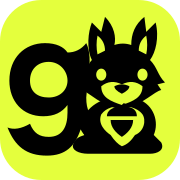
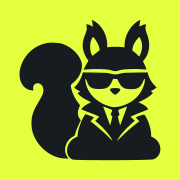
Gitmapp logosunu yazısız ajan sincap olarak yenile

diff --git a/index.html b/index.html
@@ -8,9 +8,9 @@
 <meta name="theme-color" content="#0a0a0a" /><meta name="robots" content="index,follow" /><link rel="canonical" href="https://gitmapp.com/" />
 <meta property="og:type" content="website" /><meta property="og:site_name" content="gitmapp" /><meta property="og:title" content="gitmapp — Fikrinden canlı uygulamaya, dakikalar içinde" />
 <meta property="og:description" content="Türkçe anlat, yapay zekâ yapsın: uygulama, site ve oyun. Hazır şablonlar ve tek tıkla yayın." /><meta property="og:url" content="https://gitmapp.com/" /><meta name="twitter:card" content="summary_large_image" />
-<link rel="manifest" href="./manifest.webmanifest"><link rel="apple-touch-icon" href="./pwa/icon-180.png">
-<link rel="icon" type="image/svg+xml" href="./brand/app-icon.svg" />
-<link rel="stylesheet" href="./brand/motion.css" />
+<link rel="manifest" href="./manifest.webmanifest"><link rel="apple-touch-icon" href="./pwa/icon-180.png?v=agent">
+<link rel="icon" type="image/svg+xml" href="./brand/app-icon.svg?v=agent" />
+<link rel="stylesheet" href="./brand/motion.css?v=agent" />
 <link rel="preconnect" href="https://fonts.googleapis.com" />
 <link href="https://fonts.googleapis.com/css2?family=Inter:wght@400;500;600;700;800&family=Source+Serif+4:opsz,wght@8..60,400;8..60,500;8..60,600&family=JetBrains+Mono:wght@400;500&family=Poppins:wght@500;700&family=DM+Sans:wght@500;700&family=Space+Grotesk:wght@500;700&family=Playfair+Display:wght@600;700&family=Nunito:wght@600;800&family=Newsreader:ital,opsz,wght@0,6..72,400;0,6..72,500;1,6..72,400&display=swap" rel="stylesheet" />
 <style>
@@ -21,7 +21,6 @@ button,input,select,textarea{font:inherit;color:inherit}
 .app{display:flex;min-height:100vh}
 .side{width:230px;flex-shrink:0;background:var(--bg2);border-right:1px solid var(--line);padding:18px 12px;position:sticky;top:0;height:100vh;display:flex;flex-direction:column;gap:4px}
 .logo{display:flex;align-items:center;gap:10px;font-weight:800;font-size:18px;padding:4px 8px 18px}
-.logo i{width:32px;height:32px;border-radius:9px;background:linear-gradient(135deg,var(--acc),var(--acc2));display:grid;place-items:center;font-style:normal}
 .nav{display:flex;align-items:center;gap:10px;padding:10px 12px;border-radius:9px;cursor:pointer;color:var(--mut);border:0;background:none;text-align:left;width:100%}
 .nav:hover{background:#222221;color:var(--txt)}.nav.on{background:#292928;color:#fff}
 .nav b{margin-left:auto;background:var(--acc);color:#fff;border-radius:20px;padding:0 7px;font-size:11px}
@@ -160,7 +159,7 @@ body::before{content:"";position:fixed;inset:0;pointer-events:none;z-index:0;bac
 .glass{background:rgba(14,14,14,.66);backdrop-filter:blur(22px) saturate(160%);-webkit-backdrop-filter:blur(22px) saturate(160%)}
 .side{width:256px;border-right:1px solid rgba(255,255,255,.06);padding:16px 12px 12px;gap:2px;overflow:auto}
 .logo{gap:11px;font-size:19px;letter-spacing:-.2px;padding:2px 6px 14px}
-.brand{display:grid;place-items:center;flex-shrink:0;background:linear-gradient(145deg,#e4ff3d,#a3e635 55%,#f4ffb3);box-shadow:0 6px 18px -6px rgba(163,230,53,.7),inset 0 0 0 1px rgba(255,255,255,.18)}
+.brand{display:block;flex-shrink:0;color:inherit}
 .tile{display:grid;place-items:center;flex-shrink:0;box-shadow:inset 0 0 0 1px rgba(255,255,255,.16),0 2px 6px -2px rgba(0,0,0,.6)}
 .sbox{display:flex;align-items:center;gap:8px;background:rgba(255,255,255,.055);border:1px solid rgba(255,255,255,.06);border-radius:12px;padding:9px 12px;margin-bottom:10px;transition:border-color .2s,background .2s}.sbox:focus-within{border-color:#e4ff3d;background:rgba(228,255,61,.08)}
 .sbox input{flex:1;min-width:0;border:0;background:none;outline:0;font-size:14px}.sbox input::placeholder{color:#888883}
@@ -186,7 +185,7 @@ body::before{content:"";position:fixed;inset:0;pointer-events:none;z-index:0;bac
 .explore{max-width:1180px;margin:0 auto}
 .hero-banner{position:relative;overflow:hidden;border-radius:28px;min-height:340px;display:flex;align-items:center;padding:42px 48px;background:radial-gradient(800px 400px at 85% 20%,rgba(255,95,162,.55),transparent 60%),radial-gradient(700px 500px at 10% 110%,rgba(255,179,71,.55),transparent 60%),linear-gradient(120deg,#ff7a45,#e8467c 45%,#8b5cf6);box-shadow:0 30px 60px -30px rgba(232,70,124,.6)}
 .hero-banner::after{content:"";position:absolute;inset:0;background:linear-gradient(90deg,rgba(11,15,23,.35),transparent 60%);pointer-events:none}
-.hb-mark{position:absolute;right:-70px;bottom:-110px;opacity:.13;transform:rotate(-14deg);pointer-events:none}.hb-mark .brand{background:#fff!important;box-shadow:none}
+.hb-mark{position:absolute;right:-70px;bottom:-110px;opacity:.13;transform:rotate(-14deg);pointer-events:none}
 .hb-txt{position:relative;z-index:2;max-width:540px}
 .hb-txt h1{font-size:44px;line-height:1.08;letter-spacing:-1.2px;margin:6px 0 12px;font-weight:800;color:#fff}
 .hb-txt p{color:rgba(255,255,255,.88);font-size:16px;line-height:1.55;margin:0 0 22px}
@@ -473,8 +472,6 @@ h1{font-size:30px;font-weight:800;letter-spacing:-.6px;line-height:1.15}
 /* ===== v4.0 GITMAPP KİMLİĞİ — limon sarısı, grafit, ince çizgi ===== */
 body{background:radial-gradient(900px 520px at 85% -10%,rgba(228,255,61,.07),transparent 60%),var(--bg)}
 body::before{background-image:linear-gradient(rgba(255,255,255,.025) 1px,transparent 1px),linear-gradient(90deg,rgba(255,255,255,.025) 1px,transparent 1px);background-size:48px 48px}
-.brand{background:#e4ff3d!important;box-shadow:0 0 0 1px rgba(228,255,61,.35),0 8px 24px -10px rgba(228,255,61,.55)}
-.wordmark i{width:auto!important;height:auto!important;background:none!important;box-shadow:none!important;display:inline!important;border-radius:0!important;font-size:inherit}.wordmark{font-family:Inter,system-ui,sans-serif;font-weight:800;letter-spacing:-.06em;color:#f4f4ef;line-height:1}.wordmark i{font-style:normal;color:#e4ff3d}
 .tile{background:#141414;color:#e4ff3d;box-shadow:inset 0 0 0 1px #2a2a2a}
 .tile.hue{color:var(--tc,#e4ff3d)}
 .nav.on .tile{background:#e4ff3d;color:#0a0a0a;box-shadow:none}
@@ -1058,8 +1055,9 @@ const {useState,useEffect,useMemo,useCallback,useRef}=React;
 const html=htm.bind(React.createElement);
 
 /* ================= SÜRÜM / GÜNCELLEMELER ================= */
-const VERSION="5.8.0";
+const VERSION="5.8.1";
 const CHANGELOG=[
+ {v:"5.8.1",date:"2026-11-25",items:["Gitmapp logosu gözlüklü ve kravatlı bir ajan sincap olarak yenilendi. Menü, giriş ekranı ve uygulama simgeleri aynı yazısız işareti kullanıyor."]},
  {v:"5.8.0",date:"2026-11-25",items:[
   "💬 Asistan paneli de Claude sohbet dilini kullanıyor: istek gelince “… isteği değerlendiriliyor” satırı ve canlı sayaçlı “Düşünüyor… N sn” kutusu çıkıyor",
   "💭 Her yanıtın üstünde “N sn düşündü” satırı var; basınca ne düşündüğü açılıyor",
@@ -2350,7 +2348,7 @@ function SketchScene({onStart,compact}){
    <rect class="sk-scan" x="560" y="24" width="360" height="4" fill="rgba(79,140,255,.85)"/>
   </svg>
   <div class="sk-phone"><div class="sk-screen">
-   <div class="sk-bar"><${BrandMark} s=${20}/><b>Gitmapp</b><span style=${{flex:1}}></span><${Icon} n="search" s=${13}/></div>
+   <div class="sk-bar"><${BrandMark} s=${24} label="Gitmapp"/><span style=${{flex:1}}></span><${Icon} n="search" s=${13}/></div>
    <div class="sk-hero"><span class="eyebrow light" style=${{fontSize:7}}>Çizimden uygulamaya</span><b>Kuaför Randevu</b><span>Çiziminden oluşturuldu</span></div>
    <div class="sk-cats">${[["sparkles","#ec4899,#f472b6","Saç"],["heart","#f43f5e,#f59e0b","Bakım"],["star","#8b5cf6,#d946ef","Makyaj"]].map(([ic,g,l])=>html`<div key=${l}><${Tile} n=${ic} g=${g} s=${22}/><span>${l}</span></div>`)}</div>
    ${[["💇","#ec4899","Saç kesimi","45 dk"],["💅","#8b5cf6","Manikür","30 dk"],["🧖","#f59e0b","Cilt bakımı","60 dk"]].map(([e,c,t,d])=>html`<div class="sk-row" key=${t}><${AppIcon2} emoji=${e} color=${c} size=${24}/><div><b>${t}</b><span>${d}</span></div><i>AL</i></div>`)}
@@ -3103,8 +3101,7 @@ const ecosystemRoutes={ana:"idea","$ara":"search",studio:"studio",sablonlar:"tem
 const EcosystemIcon=({name,s=20})=>html`<svg class="gm-icon" aria-hidden="true" focusable="false" width=${s} height=${s} viewBox="0 0 24 24" fill="none" stroke="currentColor" stroke-width="1.65" stroke-linecap="round" stroke-linejoin="round"><use href=${"./brand/ecosystem.svg#"+name}/></svg>`;
 const NavIcon=({k,n,s})=>ecosystemRoutes[k]?html`<${EcosystemIcon} name=${ecosystemRoutes[k]} s=${s}/>`:html`<${Icon} n=${(TILE[k]||[n||"dot"])[0]} s=${s} c="currentColor"/>`;
 const Tile=({k,n,s=28})=>html`<span class="tile" style=${{width:s,height:s}}><${NavIcon} k=${k} n=${n} s=${Math.round(s*.68)}/></span>`;
-const BrandMark=({s=34})=>html`<span class="brand" aria-hidden="true" style=${{width:s,height:s,borderRadius:s*.28,color:"#101211"}}><svg class="gm-squirrel" aria-hidden="true" focusable="false" width=${s*.91} height=${s*.91} viewBox="0 0 96 96"><use class="sq-tail" href="./brand/squirrel.svg#tail"/><use href="./brand/squirrel.svg#body"/><use class="sq-head" href="./brand/squirrel.svg#head"/><use class="sq-nut" href="./brand/squirrel.svg#acorn"/></svg></span>`;
-const Wordmark=({s=19})=>html`<span class="wordmark" style=${{fontSize:s}}>gitmapp<i>.</i></span>`;
+const BrandMark=({s=34,label})=>html`<svg class="brand gm-squirrel" width=${s} height=${s} viewBox="0 0 96 96" fill="currentColor" role=${label?"img":undefined} aria-label=${label} aria-hidden=${label?undefined:"true"} focusable="false"><use href="./brand/squirrel.svg?v=agent#agent"/></svg>`;
 const CAT_META={is:["briefcase","#3b82f6,#6366f1"],verimlilik:["check","#22c55e,#14b8a6"],egitim:["cap","#f59e0b,#f97316"],saglik:["heart","#f43f5e,#ec4899"],eticaret:["bag","#8b5cf6,#d946ef"],yemek:["utensils","#f97316,#ef4444"],oyun:["gamepad","#6366f1,#a855f7"],finans:["wallet","#10b981,#22c55e"],sosyal:["chat","#0ea5e9,#22d3ee"],araclar:["wrench","#64748b,#94a3b8"],diger:["sparkles","#ec4899,#f59e0b"]};
 const catName=id=>{const c=STORE_CATS2.find(x=>x[0]===id);return c?c[2]:"Diğer"};
 const SYMBOL_ICON={"🎯": "brand_crm", "🧾": "brand_muhasebe", "📦": "brand_stok", "🛡": "brand_sigorta", "🦷": "brand_klinik", "🏡": "brand_emlak", "✅": "check", "🍽": "brand_restoran", "✨": "sparkles", "📅": "calendar", "💇": "scissors", "☕": "coffee", "🛒": "shopping-cart", "💰": "wallet", "🧠": "brain", "🎮": "gamepad", "🎉": "confetti", "🏋": "barbell", "📚": "books", "🏥": "hospital", "🏠": "home", "🚗": "car", "🐾": "paw-print", "🎵": "music-notes", "📷": "camera", "💬": "chat", "🌱": "plant", "⚽": "soccer-ball", "⚖": "scale", "⚡": "bolt", "⚫": "dot", "✈": "airplane", "✍": "pen", "🌙": "moon", "🌾": "grains", "🎓": "cap", "🎨": "paint-brush", "🎬": "film-strip", "🏗": "crane", "🏢": "realty", "🏨": "bed", "🐋": "sailboat", "👥": "users", "💼": "briefcase", "📄": "file", "📇": "users", "📡": "radar", "📱": "phone", "🔎": "search", "🔵": "dot", "🚀": "rocket", "🚚": "truck", "🛠": "wrench", "🖼": "image", "🟠": "dot", "🟢": "dot", "🟣": "dot", "🟧": "grid", "🤖": "bot", "🦙": "cpu", "💅": "flower", "🧖": "hand-heart", "🔥": "flame", "🗺": "map", "📸": "camera", "🌐": "globe", "🌍": "globe", "🌟": "star", "⭐": "star", "👾": "gamepad", "🐙": "code", "🏁": "target", "💳": "card", "🔗": "link", "📨": "send", "⬇": "download", "👁": "eye", "✏": "edit", "🔑": "key", "🗂": "folder", "💡": "bolt", "🛍": "bag", "🗑": "trash", "📊": "chart", "💎": "gem", "🧭": "compass", "💪": "barbell", "▶": "play", "★": "star", "☆": "star", "⑂": "share"};
@@ -3689,7 +3686,7 @@ function HomePage(props){const {auth,startTemplate,go}=props;
 }
 function AuthScreen({auth,health,toast,reason,close}){
  return html`<div class="authx"><button class="authx-x ib" onClick=${close} title="Kapat"><${Icon} n="x" s=${17}/></button>
-  <div class="authx-l"><div class="authx-logo"><${BrandMark} s=${34}/><${Wordmark} s=${22}/></div>
+  <div class="authx-l"><div class="authx-logo"><${BrandMark} s=${46} label="Gitmapp"/></div>
    <div class="authx-f"><${AuthBox} auth=${auth} health=${health} toast=${toast} reason=${reason} onDone=${close}/>
     <p class="authx-legal">Devam ederek <a href="#guncel">Kullanım Koşulları</a> ve <a href="#guncel">Gizlilik Politikası</a>'nı kabul etmiş olursun.</p></div></div>
   <div class="authx-r"><div class="siri"><i></i><i></i><i></i><i></i><i></i></div>
@@ -4238,7 +4235,7 @@ function App(){
   throw new Error("Bu adımı tanımıyorum: "+a.t)};
  const cpCtx=()=>({sayfa:viewRef.current,sayfaAdi:TITLES[viewRef.current]||"Ana sayfa",girisYapti:!!auth.user,kredi:auth.user?(auth.user.credits??0):null,projeSayisi:myApps.length,studyo:viewRef.current==="studio"?(window.__gmStudio||{}):{acik:false},katalog:{sayfalar:CP_VIEWS,temalar:THEMES.map(t=>t.id+": "+t.name+" ("+t.tag+")"),sablonlar:TEMPLATE_LIB.map(t=>t.id+": "+t.name+" — "+t.sector),turler:"app|site|game",modlar:"hizli|planli|ajan"}});
  return html`<div class=${"app"+(view==="studio"?" studio-shell"+(compact?" nav-compact":""):"")+(cp?" cp-on":"")}>
-  <aside class="side glass noprint">${view==="studio"&&html`<button class="ib studio-nav-switch" aria-label=${compact?"Menüyü genişlet":"Menüyü daralt"} title=${compact?"Menüyü genişlet":"Menüyü daralt"} onClick=${()=>{setCompact(!compact);LS.set("compactStudio",!compact)}}><${Icon} n="menu" s=${16}/></button>`}<div class="logo"><${BrandMark} s=${32}/><${Wordmark}/></div>
+  <aside class="side glass noprint">${view==="studio"&&html`<button class="ib studio-nav-switch" aria-label=${compact?"Menüyü genişlet":"Menüyü daralt"} title=${compact?"Menüyü genişlet":"Menüyü daralt"} onClick=${()=>{setCompact(!compact);LS.set("compactStudio",!compact)}}><${Icon} n="menu" s=${16}/></button>`}<div class="logo"><${BrandMark} s=${42} label="Gitmapp"/></div>
    <div style=${{position:"relative"}}><button class="wsw" onClick=${()=>setWsMenu(!wsMenu)}><span class="wsw-i">${auth.user?initials(auth.user)[0]:"G"}</span><span class="wsw-t">${auth.user?(auth.user.name||"Benim").split(" ")[0]+"'in çalışma alanı":"Misafir çalışma alanı"}<small>${mode==="admin"?(isAdm?"Yönetici görünümü":"Yönetici girişi"):"Kullanıcı görünümü"}</small></span><${Icon} n="chevDown" s=${14}/></button>
     ${wsMenu&&html`<div class="wsw-m glass" onMouseLeave=${()=>setWsMenu(false)}><div class="modesw">${[["musteri","Kullanıcı"],["admin","Yönetici"]].map(([k,l])=>html`<button class=${mode===k?"on":""} onClick=${()=>{setWsMenu(false);switchMode(k)}}>${l}</button>`)}</div><button onClick=${()=>navGo("hesabim")}><${Icon} n="user" s=${15}/> Hesabım</button><button onClick=${()=>navGo("modeller")}><${Icon} n="cpu" s=${15}/> Dil modelleri ve krediler</button><button onClick=${()=>navGo("baglantilar")}><${Icon} n="plug" s=${15}/> Bağlantılar</button>${auth.user?html`<button onClick=${()=>{setWsMenu(false);auth.logout();toast("Çıkış yapıldı")}}><${Icon} n="logout" s=${15}/> Çıkış yap</button>`:html`<button onClick=${()=>{setWsMenu(false);openAuth("")}}><${Icon} n="user" s=${15}/> Giriş yap / Kayıt ol</button>`}</div>`}</div>
    <nav class="navs">${navList("")}</nav>

diff --git a/brand/motion.css b/brand/motion.css
@@ -1,24 +1,14 @@
-/* The squirrel settles on arrival, then inspects its acorn when approached. */
-.gm-squirrel .sq-tail { transform-origin: 43px 71px; }
-.gm-squirrel .sq-head { transform-origin: 65px 49px; }
-.gm-squirrel .sq-nut { transform-origin: 65px 62px; }
-@keyframes gm-tail-flick {
-  0%, 100% { transform: rotate(0); }
-  34% { transform: rotate(-7deg); }
-  66% { transform: rotate(3deg); }
-}
-@keyframes gm-sniff {
-  0%, 38%, 72%, 100% { transform: rotate(0); }
-  24%, 60% { transform: rotate(2deg) translateY(1.4px); }
-}
-@keyframes gm-nibble {
-  0%, 42%, 74%, 100% { transform: translateY(0); }
-  28%, 62% { transform: translateY(-2px); }
+/* A short lookout gesture when the agent appears or the pointer approaches. */
+@keyframes gm-lookout {
+  0%, 100% { transform: none; }
+  40% { transform: translateY(-1px) rotate(-4deg); }
+  70% { transform: rotate(1deg); }
 }
 @media (prefers-reduced-motion: no-preference) {
-  .logo .sq-tail { animation: gm-tail-flick .86s ease-in-out .15s 1; }
-  .gm-squirrel:hover .sq-head { animation: gm-sniff .82s ease-in-out; }
-  .gm-squirrel:hover .sq-nut { animation: gm-nibble .82s ease-in-out; }
+  .logo .gm-squirrel, .authx-logo .gm-squirrel:hover {
+    transform-origin: 50% 82%;
+    animation: gm-lookout .72s ease-in-out;
+  }
 }
 .brand-film { width:min(96vw,1100px); max-height:94dvh; padding:0; border:1px solid #39443a; border-radius:18px; background:#101211; color:#f2f0e6; }
 .brand-film::backdrop { background:rgba(5,11,8,.86); }

diff --git a/tools/build_brand.py b/tools/build_brand.py
@@ -1,12 +1,37 @@
-"""Regenerate the standalone favicon and install icons from the Gitmapp squirrel."""
+"""Generate the favicon, monochrome signature files and install icons from the master."""
 from pathlib import Path
 import subprocess
+import tempfile
+from xml.etree import ElementTree
 
 root = Path(__file__).resolve().parents[1]
-master = (root / "brand/squirrel.svg").read_text()
-tile = master.replace('<g id="tail">', '<rect width="96" height="96" rx="22" fill="#e4ff3d"/>\n  <g id="tail">', 1)
-source = root / "brand/app-icon.svg"
-source.write_text(tile)
-for size in (180, 192, 512):
-    subprocess.run(["inkscape", str(source), "--export-width", str(size),
-                    "--export-filename", str(root / f"pwa/icon-{size}.png")], check=True)
+brand = root / "brand"
+ns = "http://www.w3.org/2000/svg"
+ElementTree.register_namespace("", ns)
+master = ElementTree.parse(brand / "squirrel.svg").getroot()
+mark = master.find(f"{{{ns}}}g[@id='agent']")
+if mark is None:
+    raise ValueError("Missing agent silhouette in brand/squirrel.svg")
+shape = ElementTree.tostring(mark, encoding="unicode").strip()
+viewbox = master.attrib["viewBox"]
+ink = "#171c21"
+paper = "#f2f4f5"
+
+
+def icon(color, inset=False, backdrop=""):
+    symbol = f'<g transform="translate(7.2 7.2) scale(.85)">{shape}</g>' if inset else shape
+    return (f'<svg xmlns="{ns}" viewBox="{viewbox}" fill="{color}">\n'
+            f'  <title>Gitmapp</title>\n{backdrop}{symbol}\n</svg>\n')
+
+
+# Keep the existing light/dark download URLs usable with the current identity.
+(brand / "lockup-light.svg").write_text(icon(ink))
+(brand / "lockup-dark.svg").write_text(icon(paper))
+background = '<rect width="96" height="96" rx="22" fill="#e4ff3d"/>\n'
+(brand / "app-icon.svg").write_text(icon(ink, inset=True, backdrop=background))
+with tempfile.TemporaryDirectory() as directory:
+    source = Path(directory) / "app-icon.svg"
+    source.write_text(icon(ink, inset=True, backdrop='<rect width="96" height="96" fill="#e4ff3d"/>\n'))
+    for size in (180, 192, 512):
+        subprocess.run(["inkscape", str(source), "--export-width", str(size),
+                        "--export-filename", str(root / f"pwa/icon-{size}.png")], check=True)

diff --git a/brand/README.md b/brand/README.md
@@ -1,22 +1,17 @@
-# Gitmapp squirrel
+# Gitmapp agent squirrel
 
-A squirrel turns an acorn in its paws before deciding where to plant it. In Gitmapp, that acorn is a brief. A maker can start from a template, open the studio, select an element and shape it into an app of their own.
+The Gitmapp signature is a single front-facing squirrel wearing sunglasses, a jacket and a tie. Its bushy tail curves over the left shoulder. The heavy silhouette and open counters keep the face and collar legible at interface sizes.
 
-The squirrel looks straight ahead. Its tail is a single-storey lowercase g. The oval counter, thick stem and open descender echo the Inter wordmark. Use the whole animal at small sizes. The tail gives a single flick when the desktop brand appears. On hover, the nose dips twice towards the acorn. Both gestures respect the device’s reduced-motion setting.
-
-Pair the mark with the existing lowercase **gitmapp.** wordmark in Inter ExtraBold, with tight tracking and the citrus period. Use Citrus (#E4FF3D) and Ink (#101211) for the signature. Paper (#F2F0E6) and Fern (#204E40) are supporting campaign colors.
+Use the standalone mark in Ink (#171C21) on light surfaces and Paper (#F2F4F5) on dark surfaces. The installed app and favicon use the same silhouette on the Gitmapp Citrus background (#E4FF3D). Supply the accessible name “Gitmapp” where the mark identifies the product. Decorative repetitions can be hidden from assistive technology.
 
 ## Assets
 
-- `squirrel.svg` contains the single-color master with separate tail, body, head and acorn groups.
-- `app-icon.svg` and the three PNGs in `pwa/` form the favicon and install icon family. Run `python tools/build_brand.py` with Inkscape installed to regenerate them.
-- `ecosystem.svg` contains 12 symbols designed on a 24-unit grid with rounded joins and a 1.65-unit stroke. The acorn starts an idea, layered sheets introduce templates, a nib opens the studio and a paper plane means publish. Use the same symbols across mobile navigation and the desktop sidebar.
-- `motion.css` defines the squirrel’s gestures.
-
-The mark was studied at small sizes alongside GitHub’s official 16- and 24-pixel Octicons. GitHub account and repository actions retain the GitHub identity. [GitHub’s Octicon](https://primer.style/octicons/mark-github-16)
-
-The yellow bee is a companion in the campaign artwork. Each translucent wing carries the same readable lowercase g. Its standalone mark is in `bee.svg`.
+- `squirrel.svg` is the single-color vector master. The `agent` group is shared by the application UI.
+- `lockup-light.svg` and `lockup-dark.svg` are standalone versions for their respective backgrounds.
+- `app-icon.svg` is the favicon. The PNGs in `pwa/` are the install icons. Regenerate the two standalone variants, favicon and PNGs with `python tools/build_brand.py` and Inkscape.
+- `ecosystem.svg` contains the twelve interface symbols. GitHub account and repository actions keep their provider icon.
+- `motion.css` defines a short lookout gesture that respects the system’s reduced-motion preference.
 
 ## Campaign film
 
-*Small idea. Big appetite.* follows a maker adapting the Nova CRM template into a workspace for Acorn Studio. The 42-second English film uses localized captures from the working product and an original instrumental score. Open Keşfet and select **Tanıtım filmini izle**. The MP4, caption track and campaign still are in `film/`.
+*Small idea. Big appetite.* follows a maker adapting the Nova CRM template into a workspace for Acorn Studio. The 42-second English film uses localized captures from the working product and an original instrumental score. Open Keşfet and select **Tanıtım filmini izle**. The original campaign edition, including the bee and earlier brand artwork, is archived in `film/` with its caption track.
